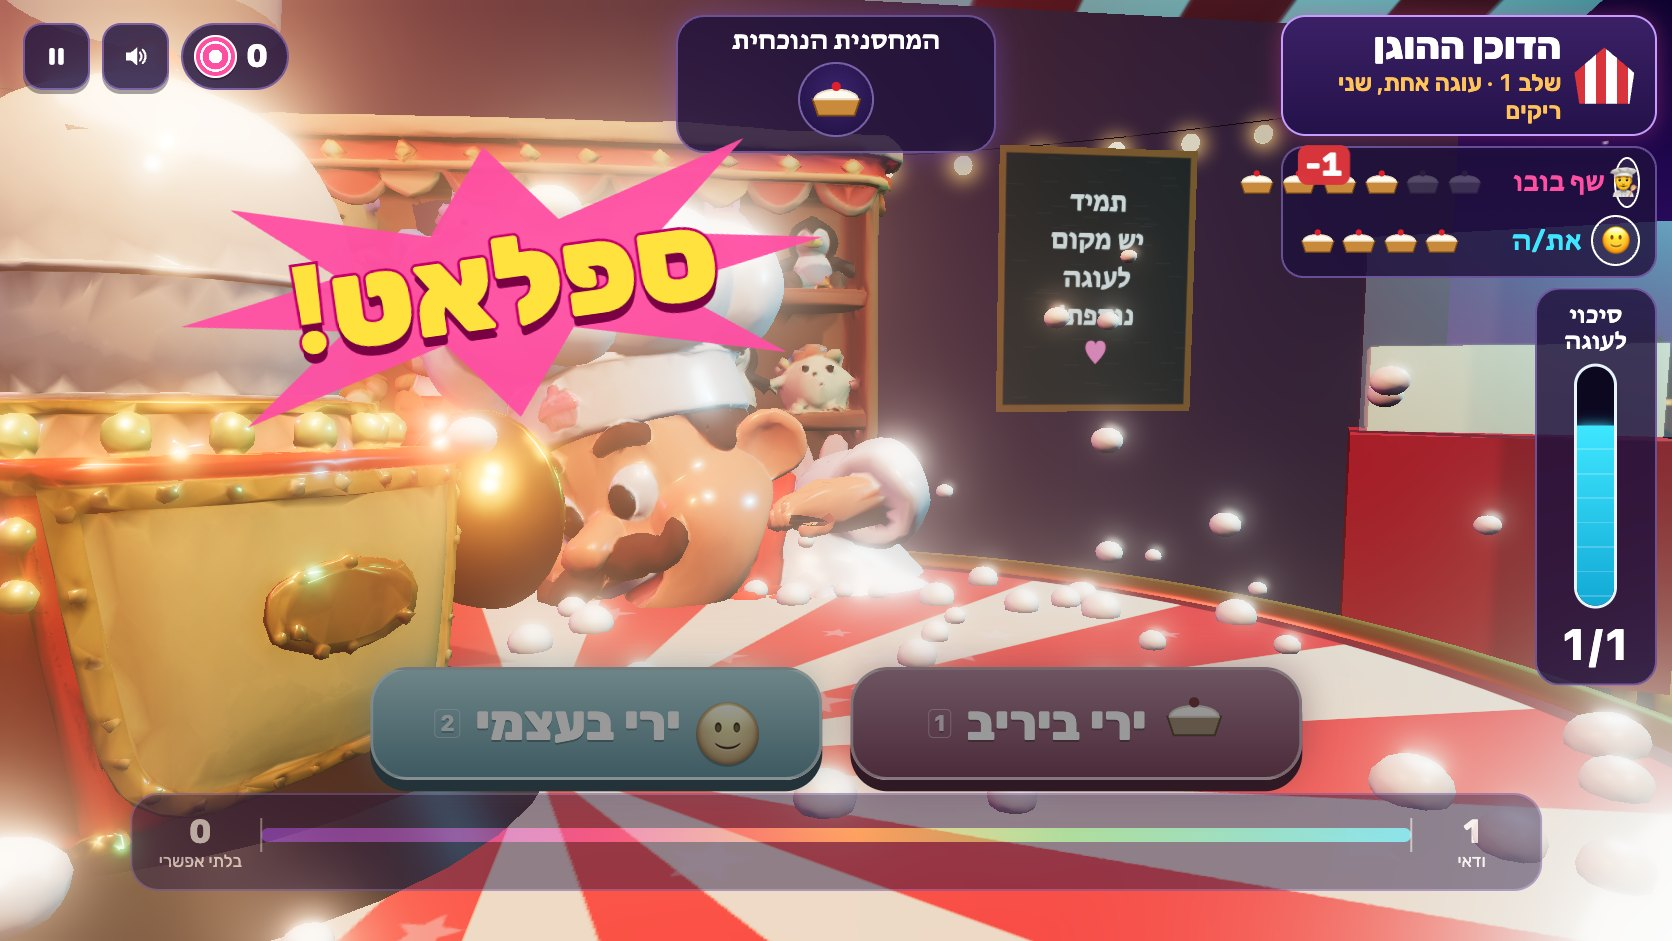
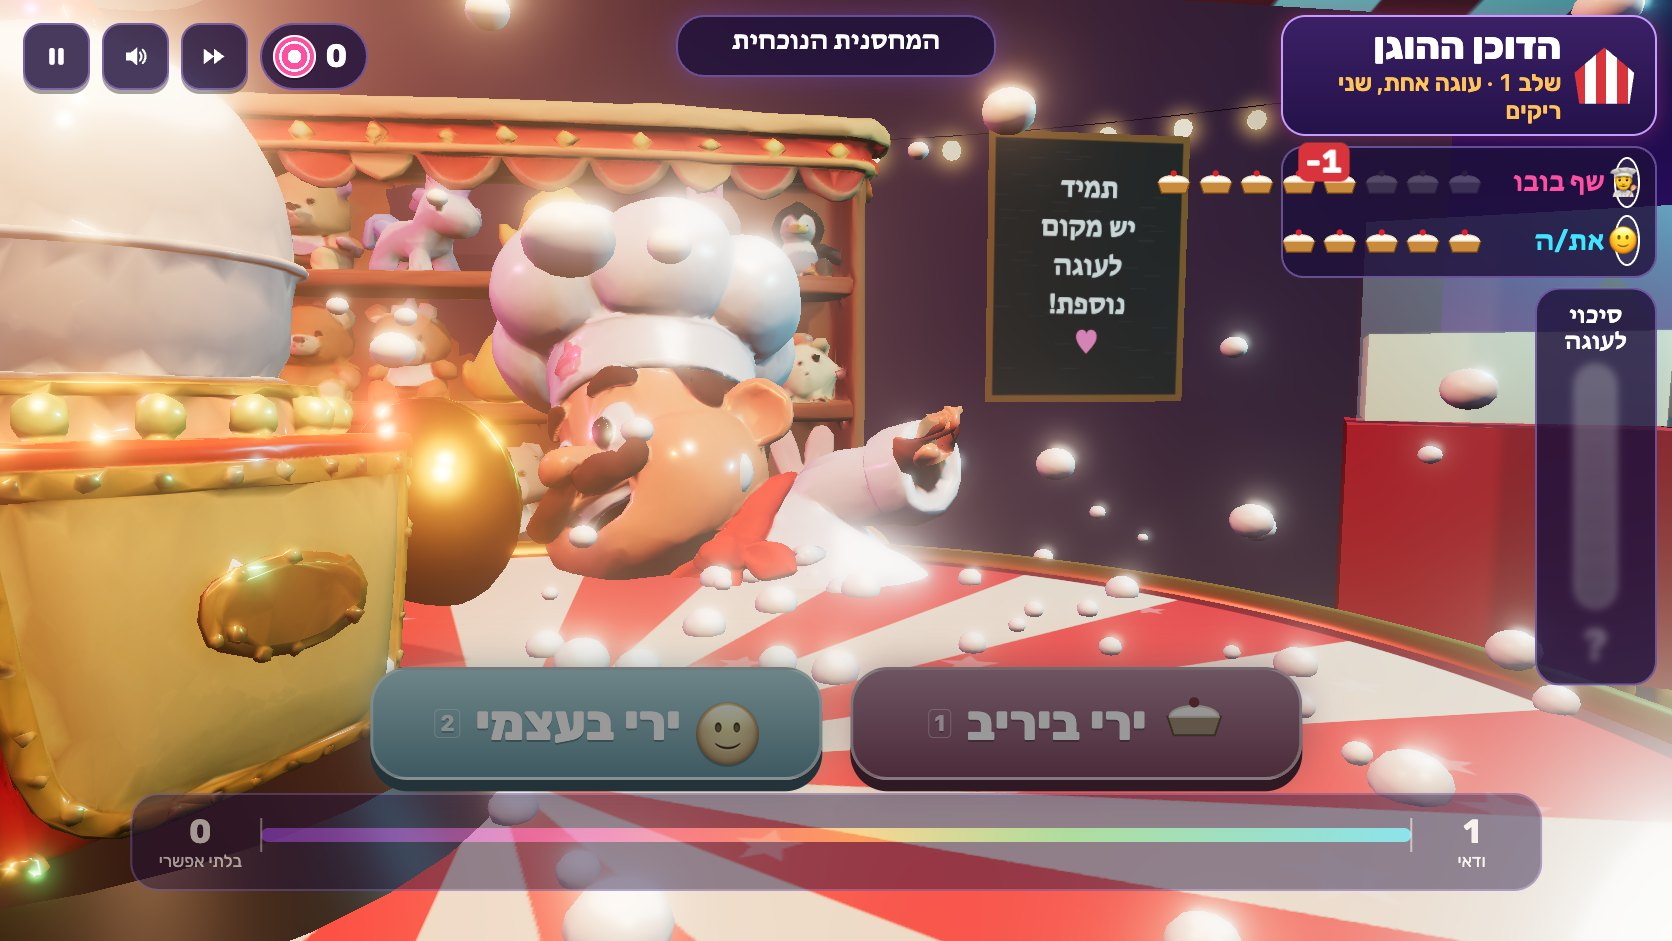
PLAYTEST: independent playtest findings and fixes; fresh captures

diff --git a/PLAYTEST.md b/PLAYTEST.md
@@ -18,9 +18,28 @@ Automation can't tell us whether 13-year-olds find this fun or learn from it. Ev
 
 **Measured:** 120 fps in headed Chrome at 1280 × 720 (DPR 1, Apple M2 Max); JS 789 kB (208 kB gzip); 7 GLBs ≈ 11 MB.
 
-## Independent playtest
+## Independent playtest (separate agent, ~110 matches through real inputs) and what we did
 
-See `docs/PLAYTEST_RAW.md` (written by a separate playtester agent that didn't build the game) and the fixes that followed, below.
+Full report: `docs/PLAYTEST_RAW.md`, screenshots in `docs/captures/playtest/`. No console errors in any of its runs. Its findings, ranked, and the response:
+
+| # | Finding | Status |
+|---|---|---|
+| 1 | **Blocker:** L16 — Robo-Clown's thought bubble printed the hidden wheel (e.g. 4/5) | **Fixed.** Both sides now reason from the public test shots; bubbles never print fractions on the mystery cannon or on no-meter levels. |
+| 2 | L16 — decisions scored against the hidden wheel but explained with the estimate | **Fixed.** Scored and explained with the relative frequency you saw; wheel/mystery-specific retry hints. |
+| 3 | L6 — a perfect reader who skips the cards couldn't pass (no dud-likely question came up) | **Fixed.** A rematch whose history lacks one of the two questions opens with a load that asks it; L6's loads skewed. Card-free perfect play now passes L6 59 % / 92 % / 100 % by attempt 1 / 2 / 3 (simulated, 300 runs). |
+| 4 | Hidden order repeated after a page load → memorize and replay | **Fixed.** Only a level's very first play uses its authored seed; every replay is a fresh shuffle. |
+| 5 | Near-constant play ("always rival unless no pies left", "self unless only pies", alternate) passed far too often | **Fixed.** Odds reading is judged on informative calls only (certain, impossible and exact-½ don't count), needs 4, both questions answered; these strategies are now in the Monte Carlo tests (≤ 40 % in one attempt, all of it luck-wins). Tutorial loads balanced so leaning one way doesn't beat naive Bubu. |
+| 6 | Call-it chips farmable by copying the meter | **Fixed.** An exact call pays only when the meter is hidden (the toast says so). |
+| 7 | Result screen praised constant play | **Fixed.** Separate texts for "one kind of question still missing" and "too few decisions". Stars now measure accuracy only. |
+| 8 | Explanation card paired P(dud) with a pie icon; card washed out by the cream overlay; lucky wrong moves got no feedback | **Fixed.** Caption says which probability is shown, icon matches, card waits for the cream; lucky wrong calls get a short note. |
+| — | L7: firing at ½ while holding Eject scored wrong with no explanation | **Fixed:** a note says Eject would have given information first. |
+| — | Rival bubbles worked as a delayed meter on transfer levels | **Fixed** (see 1). |
+| — | Meter showed the old value during shots | **Fixed:** hidden while it isn't your move. |
+| — | Phone width on Twins levels: action row overflow, hp pies spilling, overlaps | **Fixed** in the portrait container query (re-captured at 390 × 844 for L1; Twins at phone width not re-captured). |
+| — | Hebrew agreement and counts ("התאומים העז", "נשארו 1 יריות", "0 עוגות מתוך 0") | **Fixed** with count/gender helpers. |
+| — | Pacing: 10–21 s between decisions | **Improved:** shorter waits, slow motion only for your own pie on a rival, and a ×2 speed toggle (F). Not re-measured by the playtester. |
+
+After the fixes: 66 unit tests pass; the headless UI run passes 15/17 first plays for the odds autoplayer (L6 and L8 were lost on luck without cards; L8 passed on the rematch), and **always-rival and always-self fail all 17 first plays through the real buttons**.
 
 ## Known limits
 
